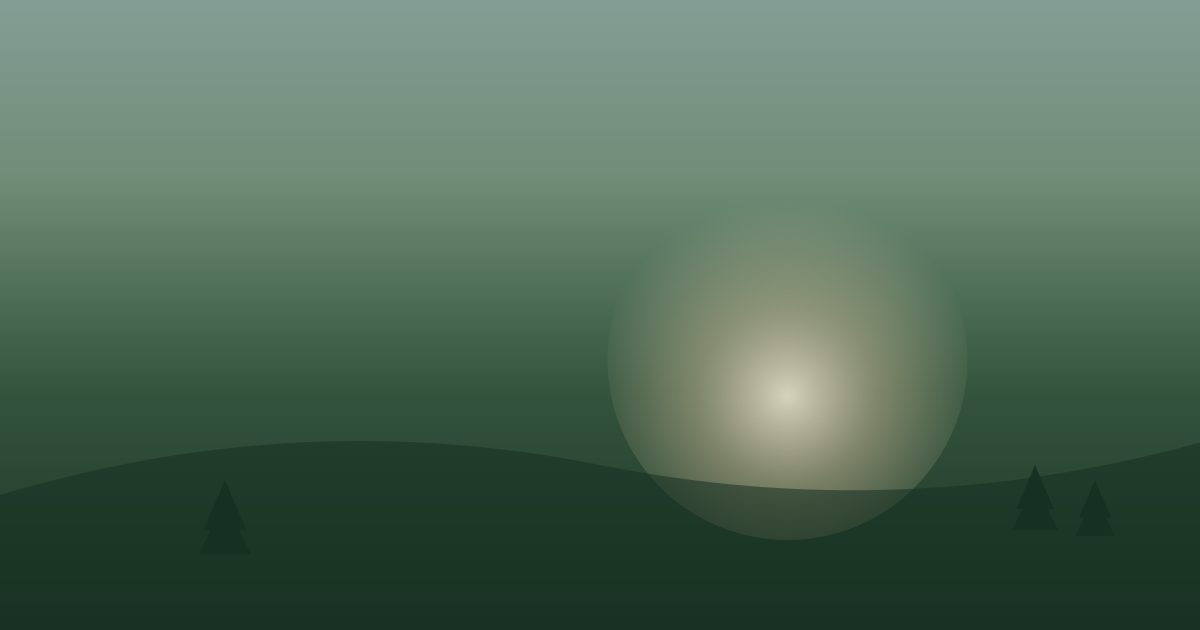
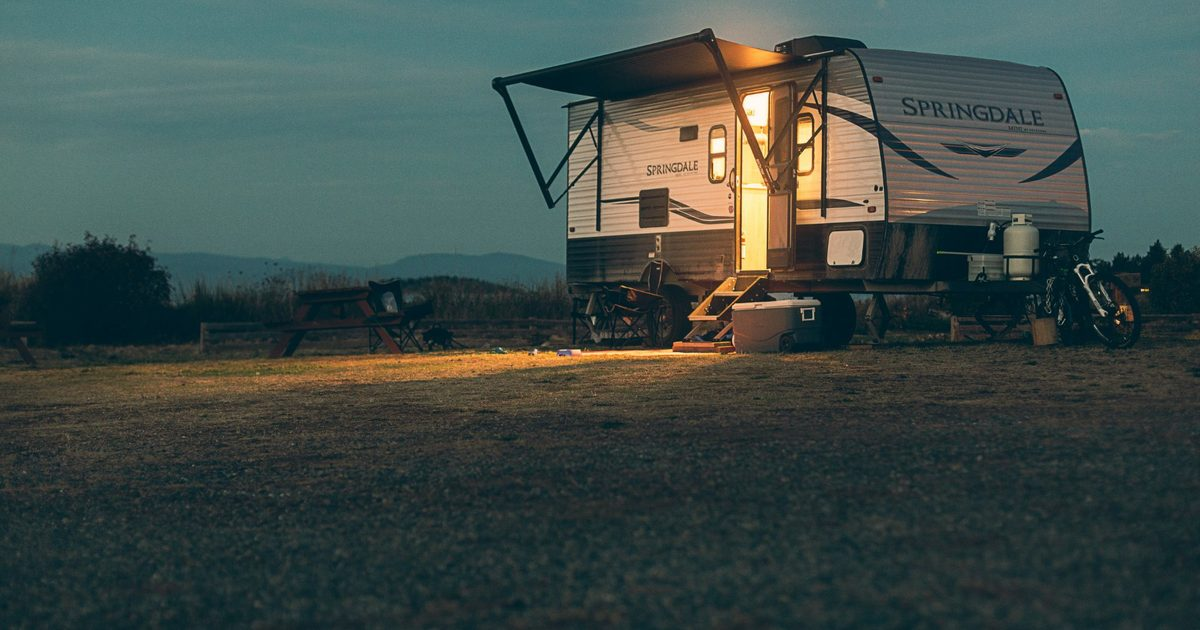
Add real photography across the site
Replace the SVG/raster placeholders with optimized real photos:
- Home hero now uses a real dusk RV photo (hero.jpg); the 1200x630 social
  image (hero-camp-dusk.jpg) is regenerated from it so link previews and
  JSON-LD show real photography.
- About mosaic: sunset over the park, the on-site playground, a child at an
  RV site, and the laundry-room sign, each with accurate alt text.
- Full-width band: a sunset panorama of the grounds.
- Things-to-do / Local adventures: real swimming-pool and local-restaurant
  photos in the swim and eats tiles (home + things-to-do pages).
- logo.png replaced with the higher-resolution brand badge (JSON-LD logo).
- Removed the now-unused SVG placeholders; park and pond remain as branded
  placeholders pending real photos. Updated images/README.md to match.

Claude-Session: https://claude.ai/code/session_01E6oEbQNwC8kBPVufKjPEX3

diff --git a/index.html b/index.html
@@ -164,7 +164,7 @@
 <main id="main">
 
 <section class="hero">
-  <img class="hero-img" src="/images/hero-camp-dusk.svg" width="1600" height="1000" fetchpriority="high"
+  <img class="hero-img" src="/images/hero.jpg" width="1600" height="1066" fetchpriority="high"
        alt="An RV parked at a Stateline Campground site at dusk with warm interior lights glowing and hills in the distance.">
   <div class="hero-content">
     <div class="hero-badges">
@@ -201,10 +201,10 @@
     </div>
     <div class="split reveal" style="margin-top:54px;">
     <div class="mosaic">
-      <figure><img src="/images/about-sunset.svg" width="900" height="700" loading="lazy" alt="Sunset glowing over the open grounds at Stateline Campground."></figure>
-      <figure><img src="/images/about-campfire.svg" width="900" height="700" loading="lazy" alt="A campfire burning at a Stateline Campground site in the evening."></figure>
-      <figure><img src="/images/about-trees.svg" width="900" height="700" loading="lazy" alt="Tree line bordering the quiet grounds at the campground."></figure>
-      <figure><img src="/images/about-fishing.svg" width="900" height="700" loading="lazy" alt="A calm fishing pond near Stateline Campground."></figure>
+      <figure><img src="/images/about-sunset.jpg" width="800" height="622" loading="lazy" alt="The sun setting over the RVs and wooded hills at Stateline Campground."></figure>
+      <figure><img src="/images/about-playground.jpg" width="800" height="622" loading="lazy" alt="A child at the campground playground with swings, a climbing wall, and a slide."></figure>
+      <figure><img src="/images/about-family.jpg" width="800" height="622" loading="lazy" alt="A young child playing with a toy truck beside an RV site at Stateline Campground."></figure>
+      <figure><img src="/images/about-laundry.jpg" width="800" height="622" loading="lazy" alt="The campground laundry room with a hand-painted Loads and Loads of Fun sign."></figure>
     </div>
     <div class="about-block">
       <p>Stateline Campground sits right on the West Virginia and Pennsylvania border in Blacksville, WV. We are a short drive from both Waynesburg, PA and Morgantown, WV, yet far enough out that the noise drops away. Owners Dana and Rod run the place themselves and live five minutes from the grounds.</p>
@@ -265,7 +265,7 @@
 </section>
 
 <section class="band">
-  <img src="/images/image-break.svg" width="1600" height="620" loading="lazy" alt="A wide evening view across the open grounds at Stateline Campground.">
+  <img src="/images/band-grounds.jpg" width="1600" height="620" loading="lazy" alt="Sunset over Stateline Campground, with RVs parked around the loop road and wooded hills beyond.">
   <div class="band-inner reveal">
     <h2>Close to town. Far from the noise.</h2>
     <p>Gas, groceries, and restaurants sit less than two miles away. When you are at camp, it feels like you have the place to yourself.</p>
@@ -357,8 +357,8 @@
     <div class="bento reveal">
       <figure class="tile"><img src="/images/park.svg" width="900" height="620" loading="lazy" alt="Open green space and trails at Mason-Dixon Park near the campground."><figcaption><h3>Mason-Dixon Park</h3><p>Hiking trails, play sets, and open space for kids and families.</p></figcaption></figure>
       <figure class="tile"><img src="/images/pond.svg" width="700" height="520" loading="lazy" alt="A quiet fishing pond in the Morgantown and Waynesburg area."><figcaption><h3>Ponds &amp; lakes</h3><p>Fishing spots across the area.</p></figcaption></figure>
-      <figure class="tile"><img src="/images/swim.svg" width="700" height="520" loading="lazy" alt="A swimming pool near Stateline Campground."><figcaption><h3>Swimming</h3><p>Indoor and outdoor pools nearby.</p></figcaption></figure>
-      <figure class="tile"><img src="/images/eats.svg" width="700" height="520" loading="lazy" alt="Local coffee and restaurants close to the campground."><figcaption><h3>Local eats &amp; coffee</h3><p>Restaurants and cafes within two miles.</p></figcaption></figure>
+      <figure class="tile"><img src="/images/swim.jpg" width="700" height="520" loading="lazy" alt="A swimming pool near Stateline Campground."><figcaption><h3>Swimming</h3><p>Indoor and outdoor pools nearby.</p></figcaption></figure>
+      <figure class="tile"><img src="/images/eats.jpg" width="700" height="520" loading="lazy" alt="A loaded pizza from a local restaurant near Stateline Campground."><figcaption><h3>Local eats &amp; coffee</h3><p>Restaurants and cafes within two miles.</p></figcaption></figure>
     </div>
     <div class="related reveal" style="margin-top:30px;">
       <a href="/campgrounds-near-waynesburg-pa/"><h3>Campgrounds near Waynesburg, PA</h3><p>Your options in Greene County, and what is 25 minutes away.</p></a>

diff --git a/things-to-do/index.html b/things-to-do/index.html
@@ -76,8 +76,8 @@
     <div class="bento reveal" style="margin-top:0;">
       <figure class="tile"><img src="/images/park.svg" width="900" height="620" loading="lazy" alt="Open green space and trails at Mason-Dixon Park near the campground."><figcaption><h3>Mason-Dixon Park</h3><p>Hiking trails, play sets, and open space for kids and families.</p></figcaption></figure>
       <figure class="tile"><img src="/images/pond.svg" width="700" height="520" loading="lazy" alt="A quiet fishing pond in the Morgantown and Waynesburg area."><figcaption><h3>Ponds &amp; lakes</h3><p>Fishing spots across the Morgantown and Waynesburg area.</p></figcaption></figure>
-      <figure class="tile"><img src="/images/swim.svg" width="700" height="520" loading="lazy" alt="A swimming pool near Stateline Campground."><figcaption><h3>Swimming</h3><p>Indoor and outdoor pools nearby.</p></figcaption></figure>
-      <figure class="tile"><img src="/images/eats.svg" width="700" height="520" loading="lazy" alt="Local coffee and restaurants close to the campground."><figcaption><h3>Local eats &amp; coffee</h3><p>Restaurants and cafes within two miles.</p></figcaption></figure>
+      <figure class="tile"><img src="/images/swim.jpg" width="700" height="520" loading="lazy" alt="A swimming pool near Stateline Campground."><figcaption><h3>Swimming</h3><p>Indoor and outdoor pools nearby.</p></figcaption></figure>
+      <figure class="tile"><img src="/images/eats.jpg" width="700" height="520" loading="lazy" alt="A loaded pizza from a local restaurant near Stateline Campground."><figcaption><h3>Local eats &amp; coffee</h3><p>Restaurants and cafes within two miles.</p></figcaption></figure>
     </div>
     <article class="prose reveal" style="margin-top:50px;">
       <h2>Close to camp</h2>

diff --git a/images/README.md b/images/README.md
@@ -1,38 +1,41 @@
 # Images
 
-The site ships with lightweight branded **SVG placeholders** so every photo
-slot looks intentional before real photography arrives. Each one is wired into
-the page with descriptive `alt` text, fixed `width`/`height` (to prevent layout
-shift), and lazy loading.
-
-## How to swap in real photos
-1. Drop the real photo in this folder.
-2. Either reuse the placeholder's name with a real extension and update the
-   `src` (for example change `hero-camp-dusk.svg` to `hero-camp-dusk.jpg`), or
-   keep your own name and update the `src` in the matching page.
-3. Re-export the social-share image. `hero-camp-dusk.jpg` is a 1200x630 raster
-   generated from `hero-camp-dusk.svg` and is what every page's `og:image` and
-   `twitter:image` point at. Replace it with a 1200x630 crop of the real photo
-   so link previews show photography instead of the placeholder artwork.
-4. Keep the `alt` text accurate to the new photo.
+Most photo slots now use **real photography** (optimized JPGs). A few slots that
+still lack a real photo keep a lightweight branded **SVG placeholder** so they
+look intentional. Every image is wired into the page with descriptive `alt`
+text, fixed `width`/`height` (to prevent layout shift), and lazy loading (except
+the hero, which is eager + `fetchpriority="high"`).
 
 ## Where each image is used
 | File | Page / slot |
 | --- | --- |
-| `hero-camp-dusk.svg` | Home hero |
-| `hero-camp-dusk.jpg` | Social share image (1200x630) and JSON-LD `image`, generated from the SVG |
-| `about-sunset.svg`, `about-campfire.svg`, `about-trees.svg`, `about-fishing.svg` | Home About mosaic |
-| `image-break.svg` | Home full-width band |
-| `park.svg`, `pond.svg`, `swim.svg`, `eats.svg` | Things-to-do bento + home Local adventures |
-| `icon.svg` | Favicon / brand mark (campfire badge), also the source for `/favicon.ico` |
-| `apple-touch-icon.png` | iOS home-screen icon (180x180), generated from `icon.svg` |
+| `hero.jpg` | Home hero (1600px wide, `object-fit:cover`) |
+| `hero-camp-dusk.jpg` | Social-share image (1200x630) — every page's `og:image`/`twitter:image` and the JSON-LD `image` |
+| `about-sunset.jpg` | Home About mosaic — sunset over the park |
+| `about-playground.jpg` | Home About mosaic — on-site playground |
+| `about-family.jpg` | Home About mosaic — child at an RV site |
+| `about-laundry.jpg` | Home About mosaic — laundry room sign |
+| `band-grounds.jpg` | Home full-width band — sunset panorama of the grounds |
+| `swim.jpg` | Things-to-do bento + home Local adventures — swimming pool |
+| `eats.jpg` | Things-to-do bento + home Local adventures — local restaurant |
+| `park.svg`, `pond.svg` | **Placeholders** — still need real photos (Mason-Dixon Park, a fishing pond) |
+| `icon.svg` | Favicon / brand mark (campfire badge); source for `/favicon.ico` |
+| `apple-touch-icon.png` | iOS home-screen icon (180x180), from `icon.svg` |
 | `logo.svg` | Full badge logo, used in the page footers |
 | `logo.png` | 512x512 raster of the badge, used for the JSON-LD `logo` |
 
+## How to swap in a real photo (e.g. to replace `park.svg` / `pond.svg`)
+1. Drop the real photo in this folder.
+2. Update the matching `<img src>` in the page(s) to point at it, and set the
+   `width`/`height` to the new file's dimensions (tiles are ~700x520).
+3. Keep the `alt` text accurate to the new photo.
+4. If you replace the hero, also re-export `hero-camp-dusk.jpg` as a 1200x630
+   crop so link previews match.
+
 ## Guidance
-- Only use photos provided by the client or generic nature/lifestyle shots.
-  Never use photos of other campgrounds that could mislead visitors.
+- Use photos you own or have permission to use. Avoid photos of other
+  campgrounds that could mislead visitors.
 - Compress before committing. Aim for under ~300 KB each (optimized JPG or
-  WebP). Netlify Image CDN can also resize on the fly.
+  WebP). Netlify's Image CDN can also resize on the fly.
 - The amenity icons in the page are inline SVG line icons, not photos, so they
   do not need image files.
